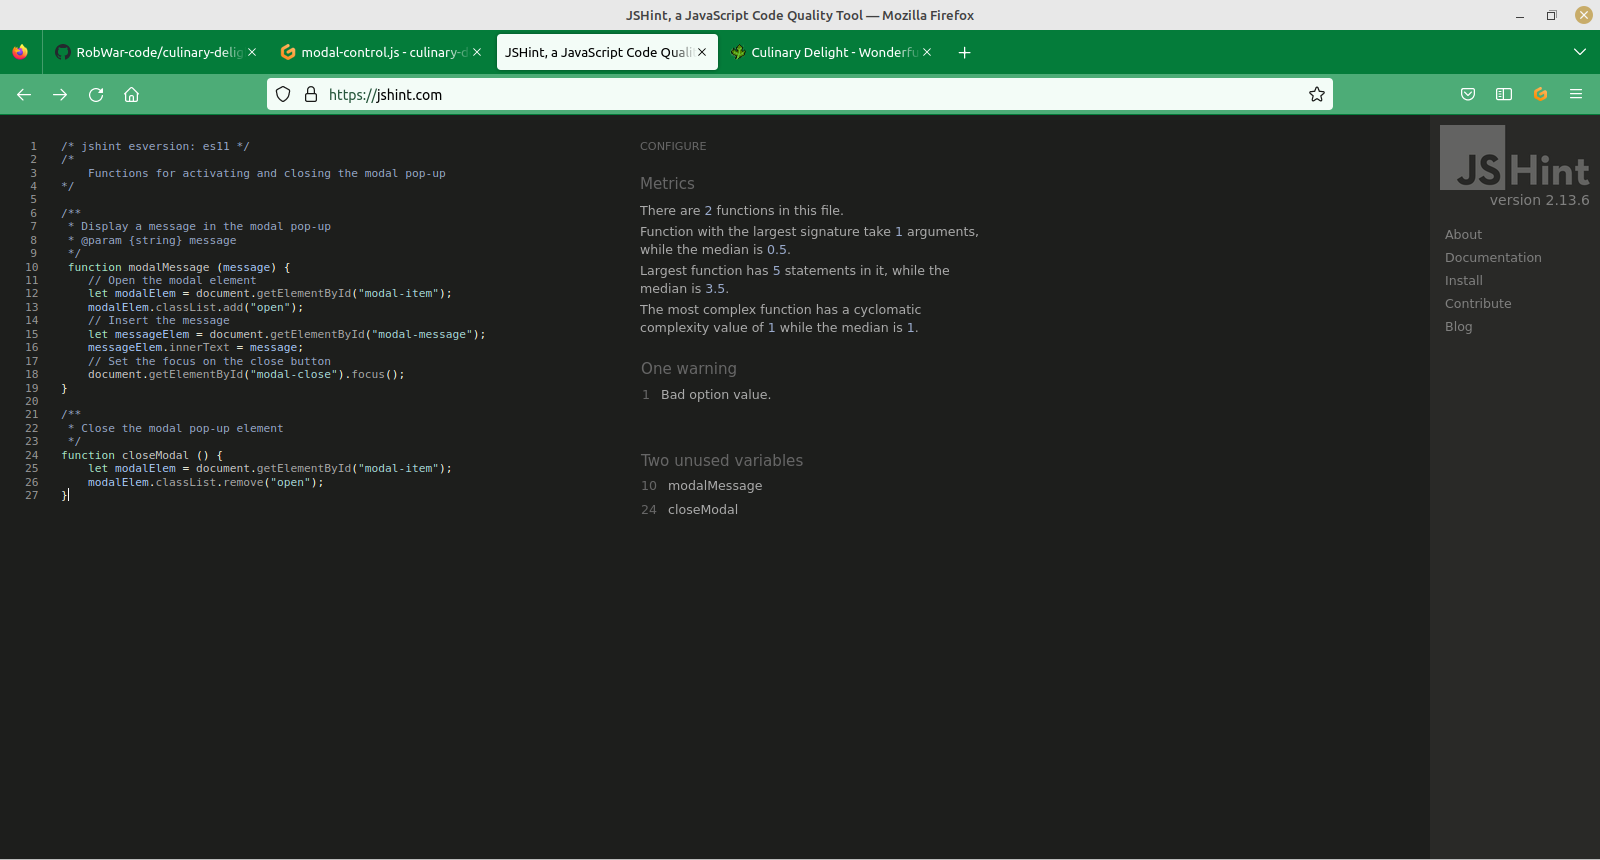
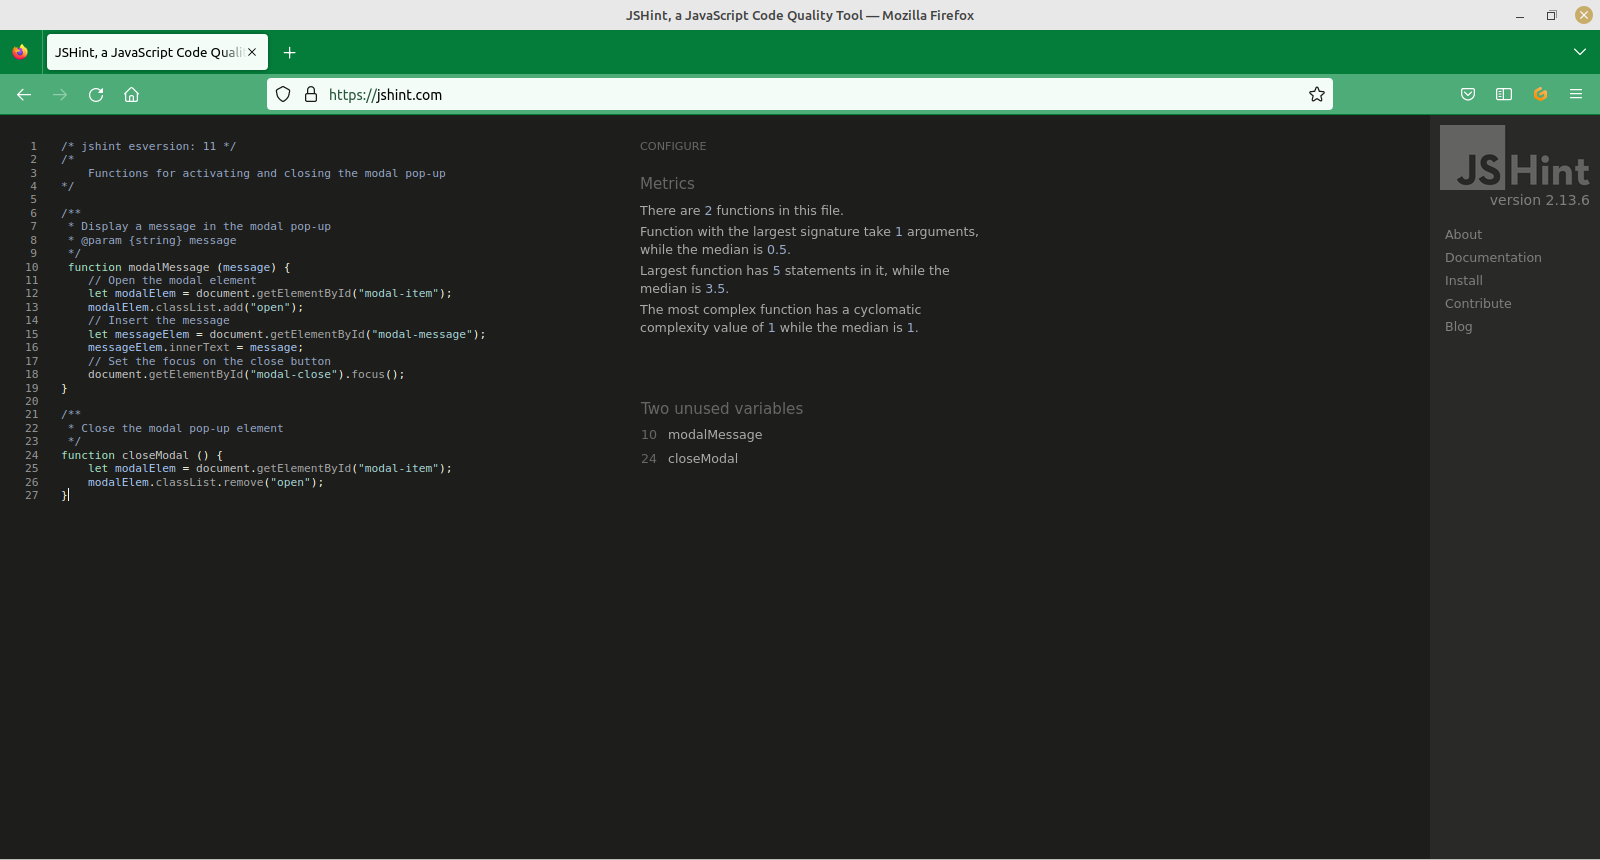
Replace jshint report images

diff --git a/assets/js/main-page.js b/assets/js/main-page.js
@@ -1,4 +1,4 @@
-/* jshint esversion: es11 */
+/* jshint esversion: 11 */
 /* Culinary Delight - Main Page Events and Functions */
 /* Dependencies:
     recipe-data.js
@@ -102,7 +102,7 @@ function registrationSubmitted(event) {
         status.innerText = "Registration Submitted";
 
         // Clear the fields
-        document.getElementById("registration-form").reset()
+        document.getElementById("registration-form").reset();
 
         // For future use, restore the default call to the action (form.submit())
     }
@@ -129,7 +129,7 @@ function commentsSubmitted(event) {
     // Update the status
     statusElem.style.display = "inline-block";
     statusElem.innerText = "Comments Submitted";
-    commentElem.value = ""
+    commentElem.value = "";
 
     // In a live setting a call to the relevant server function would occur here
 }

diff --git a/assets/js/recipe-data.js b/assets/js/recipe-data.js
@@ -1,4 +1,4 @@
-/* jshint esversion: es11 */
+/* jshint esversion: 11 */
 // Author: Robin Warner
 // Recipe Data object for Culinary Delight
 const weeklyRecipes = [

diff --git a/assets/js/recipe-page.js b/assets/js/recipe-page.js
@@ -1,4 +1,4 @@
-/* jshint esversion: es11 */
+/* jshint esversion: 11 */
 /*
     Culinary Delight - Recipe Page Loader and Event Handler
     Dependencies:

diff --git a/assets/js/modal-control.js b/assets/js/modal-control.js
@@ -1,4 +1,4 @@
-/* jshint esversion: es11 */
+/* jshint esversion: 11 */
 /*
     Functions for activating and closing the modal pop-up
 */
